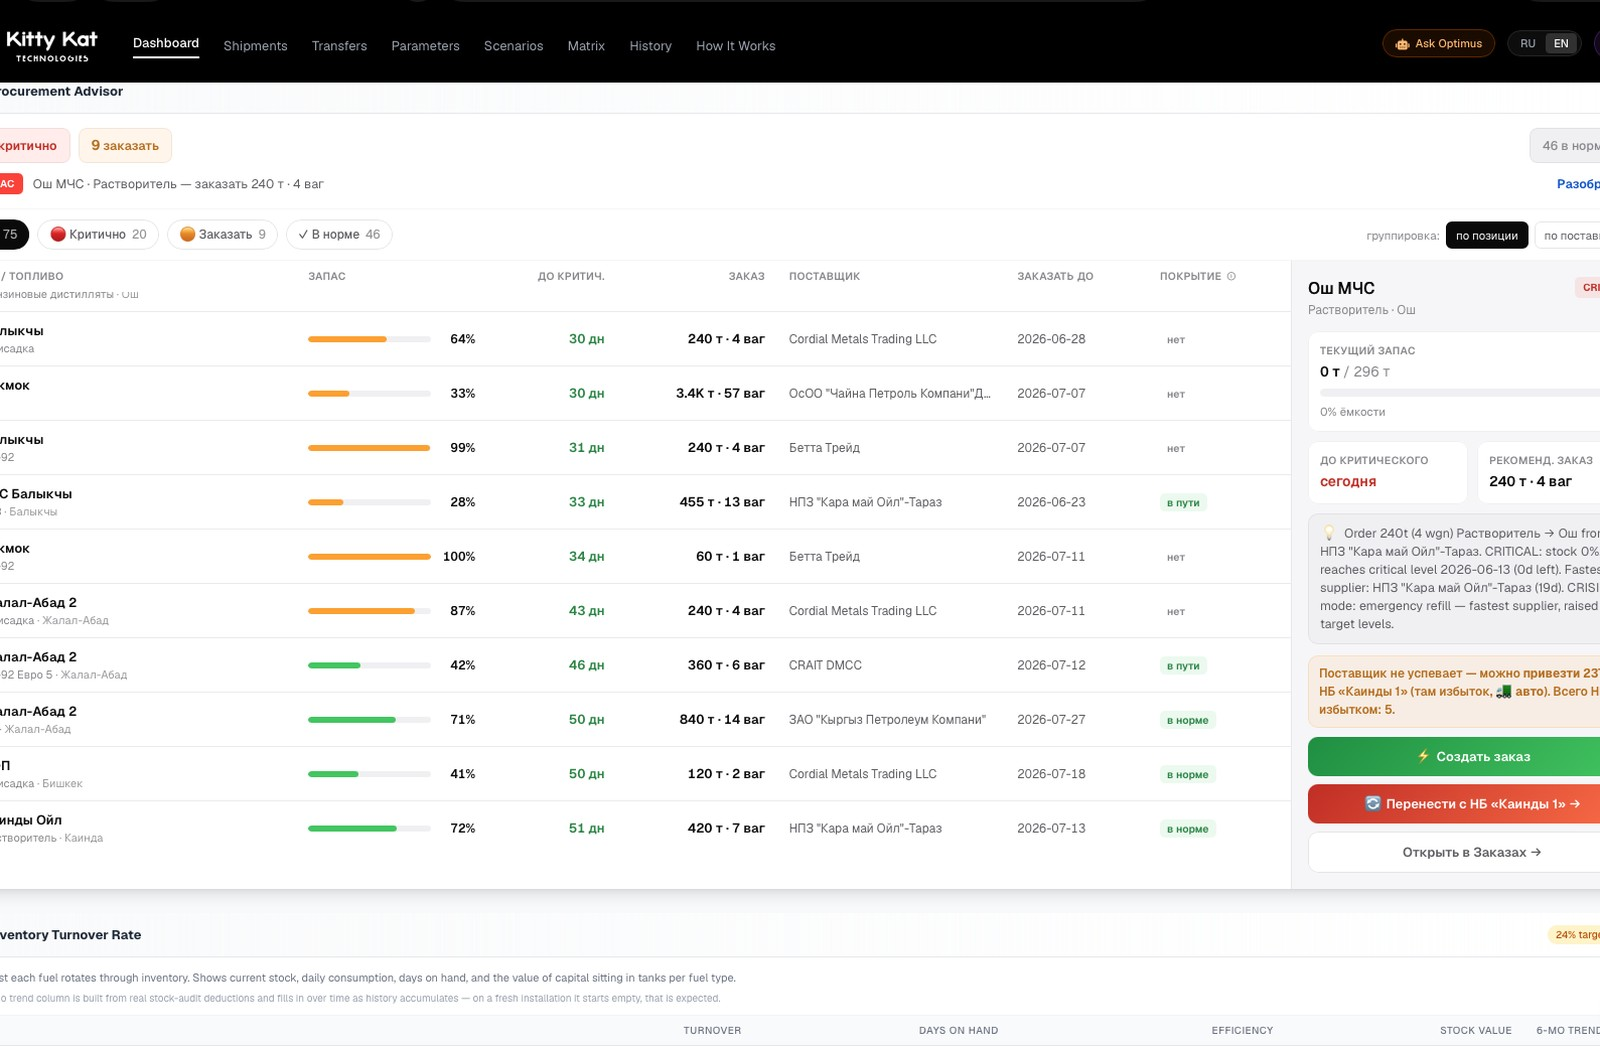
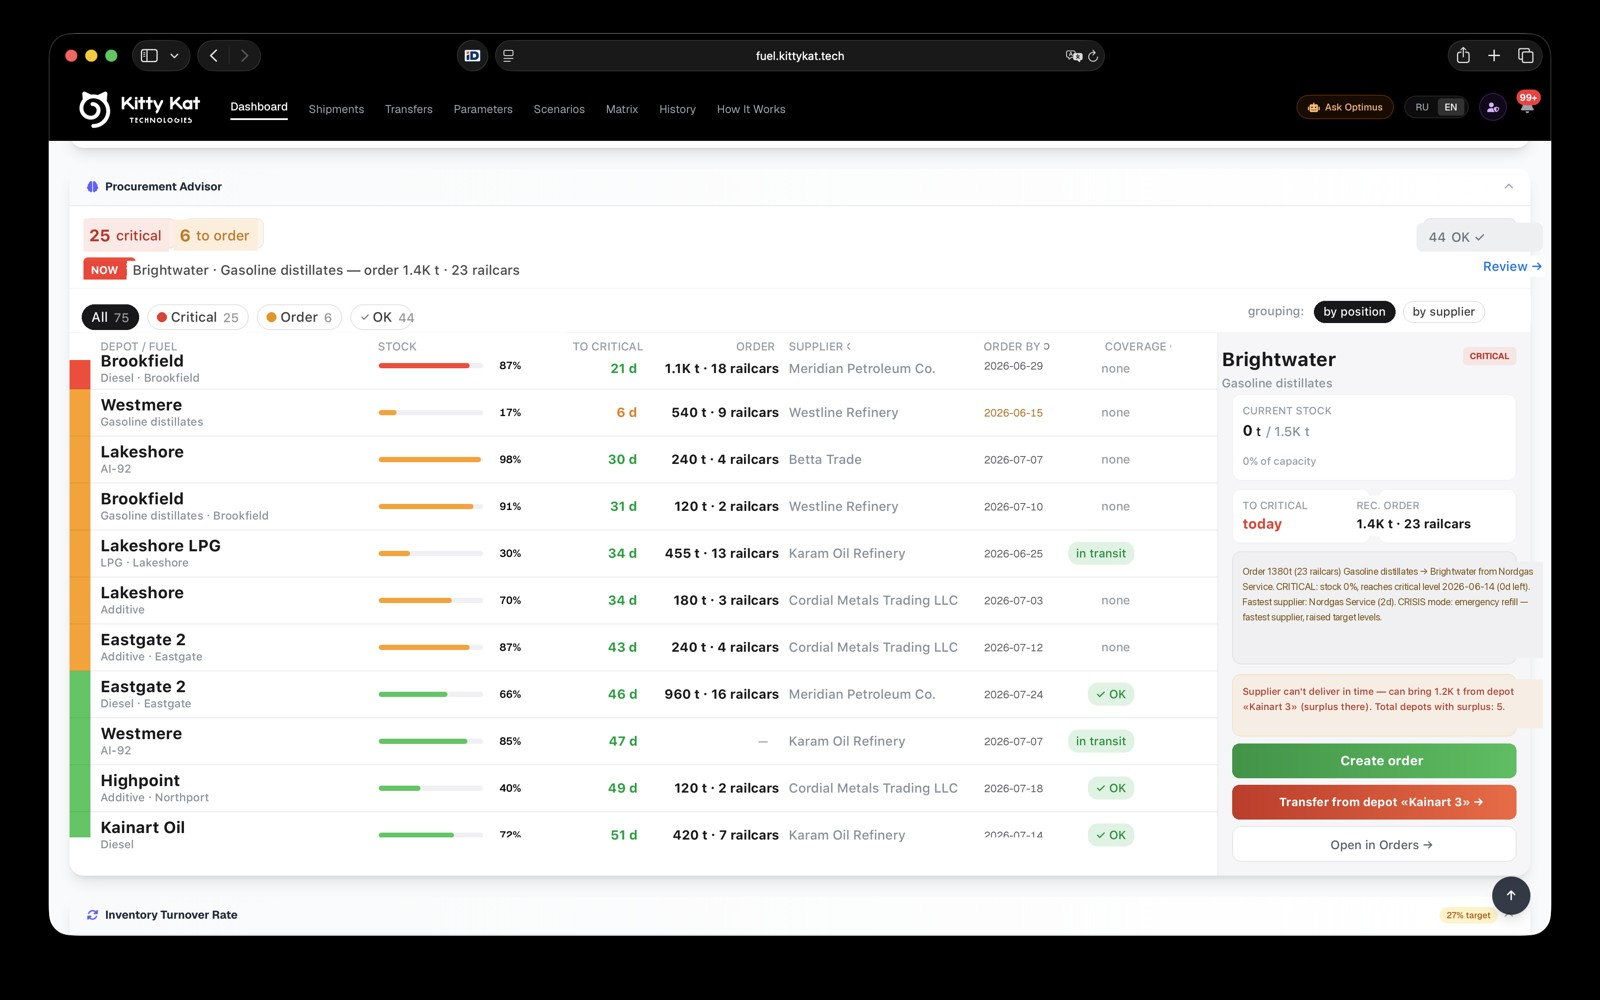
optimus: add English Procurement Advisor screenshot + lead section (en/de/et)
New 'The daily driver' section on /solutions/optimus with the Procurement
Advisor screenshot, fully English (no Cyrillic) — names randomised to
Latin, fuel/units/labels translated, numbers & dates preserved. Image at
public/screens/optimus-procurement-advisor.jpg (replaces the old RU one).
Section copy localized in optimus.ts; de/et page copies synced.

diff --git a/src/i18n/pages/optimus.ts b/src/i18n/pages/optimus.ts
@@ -23,6 +23,7 @@ export type OptimusDict = {
     operatorChip: string; operatorT: string; operatorS: string;
     note: string; caption: string; ariaLabel: string;
   };
+  advisor: { label: string; h2: string; lede: string; imgAlt: string; imgCaption: string };
   morning: { label: string; h2: string; steps: Step[] };
   changes: { label: string; h2: string; outcomes: TitleBody[]; note: string };
   how: { label: string; h2: string; lede: string; clusters: Cluster[] };
@@ -56,6 +57,13 @@ export const OPTIMUS: Record<Locale, OptimusDict> = {
       note: 'Critical alerts mirror to a Telegram group all day — independent of the web interface.',
       caption: 'Daily pulse: data lands at 03:30, the head of supply opens Optimus at 08:00, ten to fifteen minutes later the day’s procurement decisions are issued.',
       ariaLabel: 'Optimus daily pulse: ERP import at 03:30, forecast engine, procurement advisor, operator at 08:00; critical alerts mirror to Telegram independently of the web.',
+    },
+    advisor: {
+      label: 'The daily driver',
+      h2: 'Procurement, scored every morning.',
+      lede: 'The Procurement Advisor ranks every position by urgency — critical, needs ordering, or covered — with the recommended tonnage, the best supplier, and the order-by date already worked out. The operator reviews; it does the maths.',
+      imgAlt: 'Optimus Procurement Advisor — Critical / Order / OK status pills with a 14-day stockout timeline and per-route supplier ranking',
+      imgCaption: 'Procurement Advisor — every position ranked by urgency, with the recommended order and supplier.',
     },
     morning: {
       label: "A morning at the operator's desk",
@@ -172,6 +180,13 @@ export const OPTIMUS: Record<Locale, OptimusDict> = {
       caption: 'Täglicher Takt: die Daten landen um 03:30, der Leiter der Versorgung öffnet Optimus um 08:00, zehn bis fünfzehn Minuten später sind die Beschaffungsentscheidungen des Tages ausgelöst.',
       ariaLabel: 'Täglicher Optimus-Takt: ERP-Import um 03:30, Prognose-Engine, Beschaffungsberater, Operator um 08:00; kritische Warnungen werden unabhängig vom Web nach Telegram gespiegelt.',
     },
+    advisor: {
+      label: 'Der tägliche Begleiter',
+      h2: 'Beschaffung, jeden Morgen bewertet.',
+      lede: 'Der Beschaffungsberater ordnet jede Position nach Dringlichkeit — kritisch, bestellpflichtig oder gedeckt — mit empfohlener Tonnage, bestem Lieferanten und Bestellfrist bereits ermittelt. Der Operator prüft; das Rechnen übernimmt das System.',
+      imgAlt: 'Optimus Beschaffungsberater — Status-Pills Critical / Order / OK mit 14-Tage-Fehlbestand-Zeitleiste und Lieferanten-Ranking je Route',
+      imgCaption: 'Beschaffungsberater — jede Position nach Dringlichkeit, mit empfohlener Bestellung und Lieferant.',
+    },
     morning: {
       label: 'Ein Morgen am Operator-Arbeitsplatz',
       h2: 'Zehn bis fünfzehn Minuten, dann beginnt der Tag.',
@@ -286,6 +301,13 @@ export const OPTIMUS: Record<Locale, OptimusDict> = {
       note: 'Kriitilised teated peegelduvad terve päeva Telegrami gruppi — sõltumatult veebiliidesest.',
       caption: 'Päevarütm: andmed saabuvad 03:30, varustusjuht avab Optimuse 08:00, kümme kuni viisteist minutit hiljem on päeva hankeotsused väljastatud.',
       ariaLabel: 'Optimuse päevarütm: ERP-import 03:30, prognoosimootor, hankenõustaja, operaator 08:00; kriitilised teated peegelduvad Telegrami veebist sõltumatult.',
+    },
+    advisor: {
+      label: 'Igapäevane tööriist',
+      h2: 'Hanked, igal hommikul hinnatud.',
+      lede: 'Hankenõustaja järjestab iga positsiooni kiireloomulisuse järgi — kriitiline, vajab tellimist või kaetud — koos soovitatud koguse, parima tarnija ja tellimistähtajaga. Operaator vaatab üle; arvutab süsteem.',
+      imgAlt: 'Optimus Hankenõustaja — staatuse pillid Critical / Order / OK koos 14-päevase laovähesuse ajatelje ja tarnijate pingereaga marsruudi kohta',
+      imgCaption: 'Hankenõustaja — iga positsioon kiireloomulisuse järgi, koos soovitatud tellimuse ja tarnijaga.',
     },
     morning: {
       label: 'Hommik operaatori laua taga',
